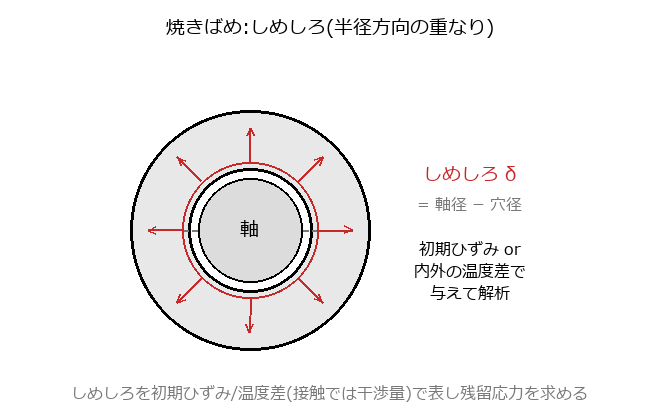
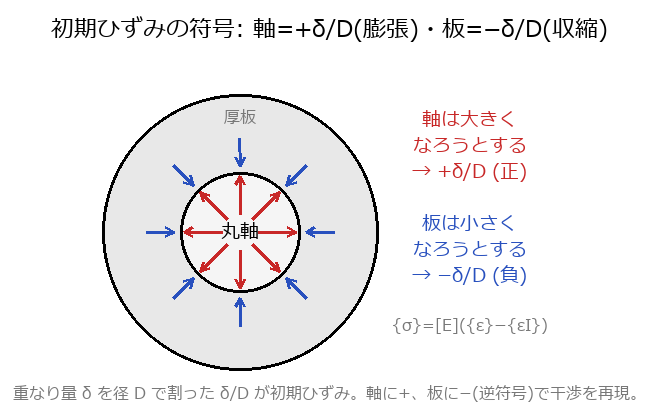
固体2級 5-26 再作成: 公式問5-26の主眼(初期ひずみの符号・大きさ)へ復元
公式問5-26は焼きばめ(丸軸圧入)残留応力の図/計算問題(正解②)。要点は
初期ひずみの符号と大きさ: 丸軸=+δ/D(軸は大きくなろうとする=正)、厚板=
-δ/D(板は小さくなろうとする=負)、{σ}=[E]({ε}-{εI})。旧問題は「どの手法か」
の一般概念に留まり符号・δ/Dの主眼が抜けていた。D=200/δ=0.10の数値計算に
作り直し(εI=+δ/D=+5e-4)。図も符号明示版に差替(回答前f5ShrinkFitSetup新設/
回答後f5ShrinkFitは軸+膨張・板-収縮を矢印と符号で明示)。生成元figs_s2_5_26.py。
check_quality PASS(計算比率も回復)。

diff --git a/src/figures.ts b/src/figures.ts
@@ -600,6 +600,7 @@ export const FIGURES: Record<string, ImageSourcePropType> = {
   f5SerendipLagrange: require('../assets/figures/f5SerendipLagrange.png'),
   f5SeriesSprings: require('../assets/figures/f5SeriesSprings.png'),
   f5ShrinkFit: require('../assets/figures/f5ShrinkFit.png'),
+  f5ShrinkFitSetup: require('../assets/figures/f5ShrinkFitSetup.png'),
   f5SolveFlow: require('../assets/figures/f5SolveFlow.png'),
   f5SymTruss: require('../assets/figures/f5SymTruss.png'),
   f5Symmetry: require('../assets/figures/f5Symmetry.png'),

diff --git a/tools/figs_s2_5_26.py b/tools/figs_s2_5_26.py
@@ -1,0 +1,61 @@
+# -*- coding: utf-8 -*-
+"""固体2級 5-26(焼きばめ=丸軸圧入の残留応力)の図を作成。
+公式問5-26の主眼=初期ひずみの符号・大きさ: 丸軸に +δ/D(軸は大きくなろうとする=正)、
+厚板は逆符号 -δ/D(板は小さくなろうとする=負)を与え {σ}=[E]({ε}-{εI}) で線形弾性解析。
+- f5ShrinkFitSetup : 回答前(丸軸D+δ・穴D・しめしろδの設定のみ。符号=答えは示さない)
+- f5ShrinkFit      : 回答後(軸=+δ/D膨張・板=-δ/D収縮 を矢印と符号で明示)
+白地660x420。"""
+import sys, math
+sys.path.insert(0, r"C:\Users\jwpsa\Documents\desktop\claude\CAE\tools")
+from figlib import *
+
+CX, CY = 240, 232
+RSHAFT, RPLATE = 60, 138
+
+
+def section(d, contract_arrows=False, expand_arrows=False):
+    """厚板(外)+丸軸(内)の断面。必要なら軸=外向き膨張/板=内向き収縮の矢印。"""
+    d.ellipse((CX - RPLATE, CY - RPLATE, CX + RPLATE, CY + RPLATE), outline=BLACK, width=3, fill=FILL2)
+    d.ellipse((CX - RSHAFT, CY - RSHAFT, CX + RSHAFT, CY + RSHAFT), outline=BLACK, width=3, fill=FILL1)
+    ctext(d, CX, CY, "丸軸", FS)
+    ctext(d, CX, CY - RPLATE + 24, "厚板", FT, GRAY)
+    for k in range(8):
+        a = math.pi * k / 4
+        ux, uy = math.cos(a), math.sin(a)
+        if expand_arrows:  # 軸: 内→外(膨張)
+            arrow(d, CX + ux * 18, CY + uy * 18, CX + ux * (RSHAFT - 4), CY + uy * (RSHAFT - 4), RED, 3, 10)
+        if contract_arrows:  # 板: 外→内(収縮)
+            r1, r2 = RSHAFT + 34, RSHAFT + 6
+            arrow(d, CX + ux * r1, CY + uy * r1, CX + ux * r2, CY + uy * r2, BLUE, 3, 10)
+
+
+# ===== 回答前: 設定のみ(符号は伏せる) =====
+im, d = new()
+title(d, "焼きばめ（丸軸圧入）: しめしろ δ")
+section(d)
+tx = 470
+ctext(d, tx, 108, "丸軸の径 = D+δ", FT, BLACK)
+ctext(d, tx, 132, "穴の径 = D", FT, BLACK)
+ctext(d, tx, 172, "しめしろ δ", F, RED)
+ctext(d, tx, 200, "= 軸径 − 穴径", FT, GRAY)
+ctext(d, tx, 246, "初期ひずみ法で", FT, BLACK)
+ctext(d, tx, 270, "残留応力を解く。", FT, BLACK)
+ctext(d, tx, 310, "与える初期ひずみ", FS, BLACK)
+ctext(d, tx, 336, "の符号と大きさは？", FS, BLACK)
+note(d, "{σ}=[E]({ε}−{εI})。丸軸と厚板それぞれに与える初期ひずみ εI は？")
+save(im, "f5ShrinkFitSetup")
+
+# ===== 回答後: 符号を明示 =====
+im, d = new()
+title(d, "初期ひずみの符号: 軸=+δ/D(膨張)・板=−δ/D(収縮)")
+section(d, contract_arrows=True, expand_arrows=True)
+tx = 470
+ctext(d, tx, 120, "軸は大きく", FS, RED)
+ctext(d, tx, 146, "なろうとする", FS, RED)
+ctext(d, tx, 172, "→ +δ/D (正)", FS, RED)
+ctext(d, tx, 224, "板は小さく", FS, BLUE)
+ctext(d, tx, 250, "なろうとする", FS, BLUE)
+ctext(d, tx, 276, "→ −δ/D (負)", FS, BLUE)
+ctext(d, tx, 326, "{σ}=[E]({ε}−{εI})", FT, GRAY)
+note(d, "重なり量 δ を径 D で割った δ/D が初期ひずみ。軸に+、板に−(逆符号)で干渉を再現。")
+save(im, "f5ShrinkFit")
